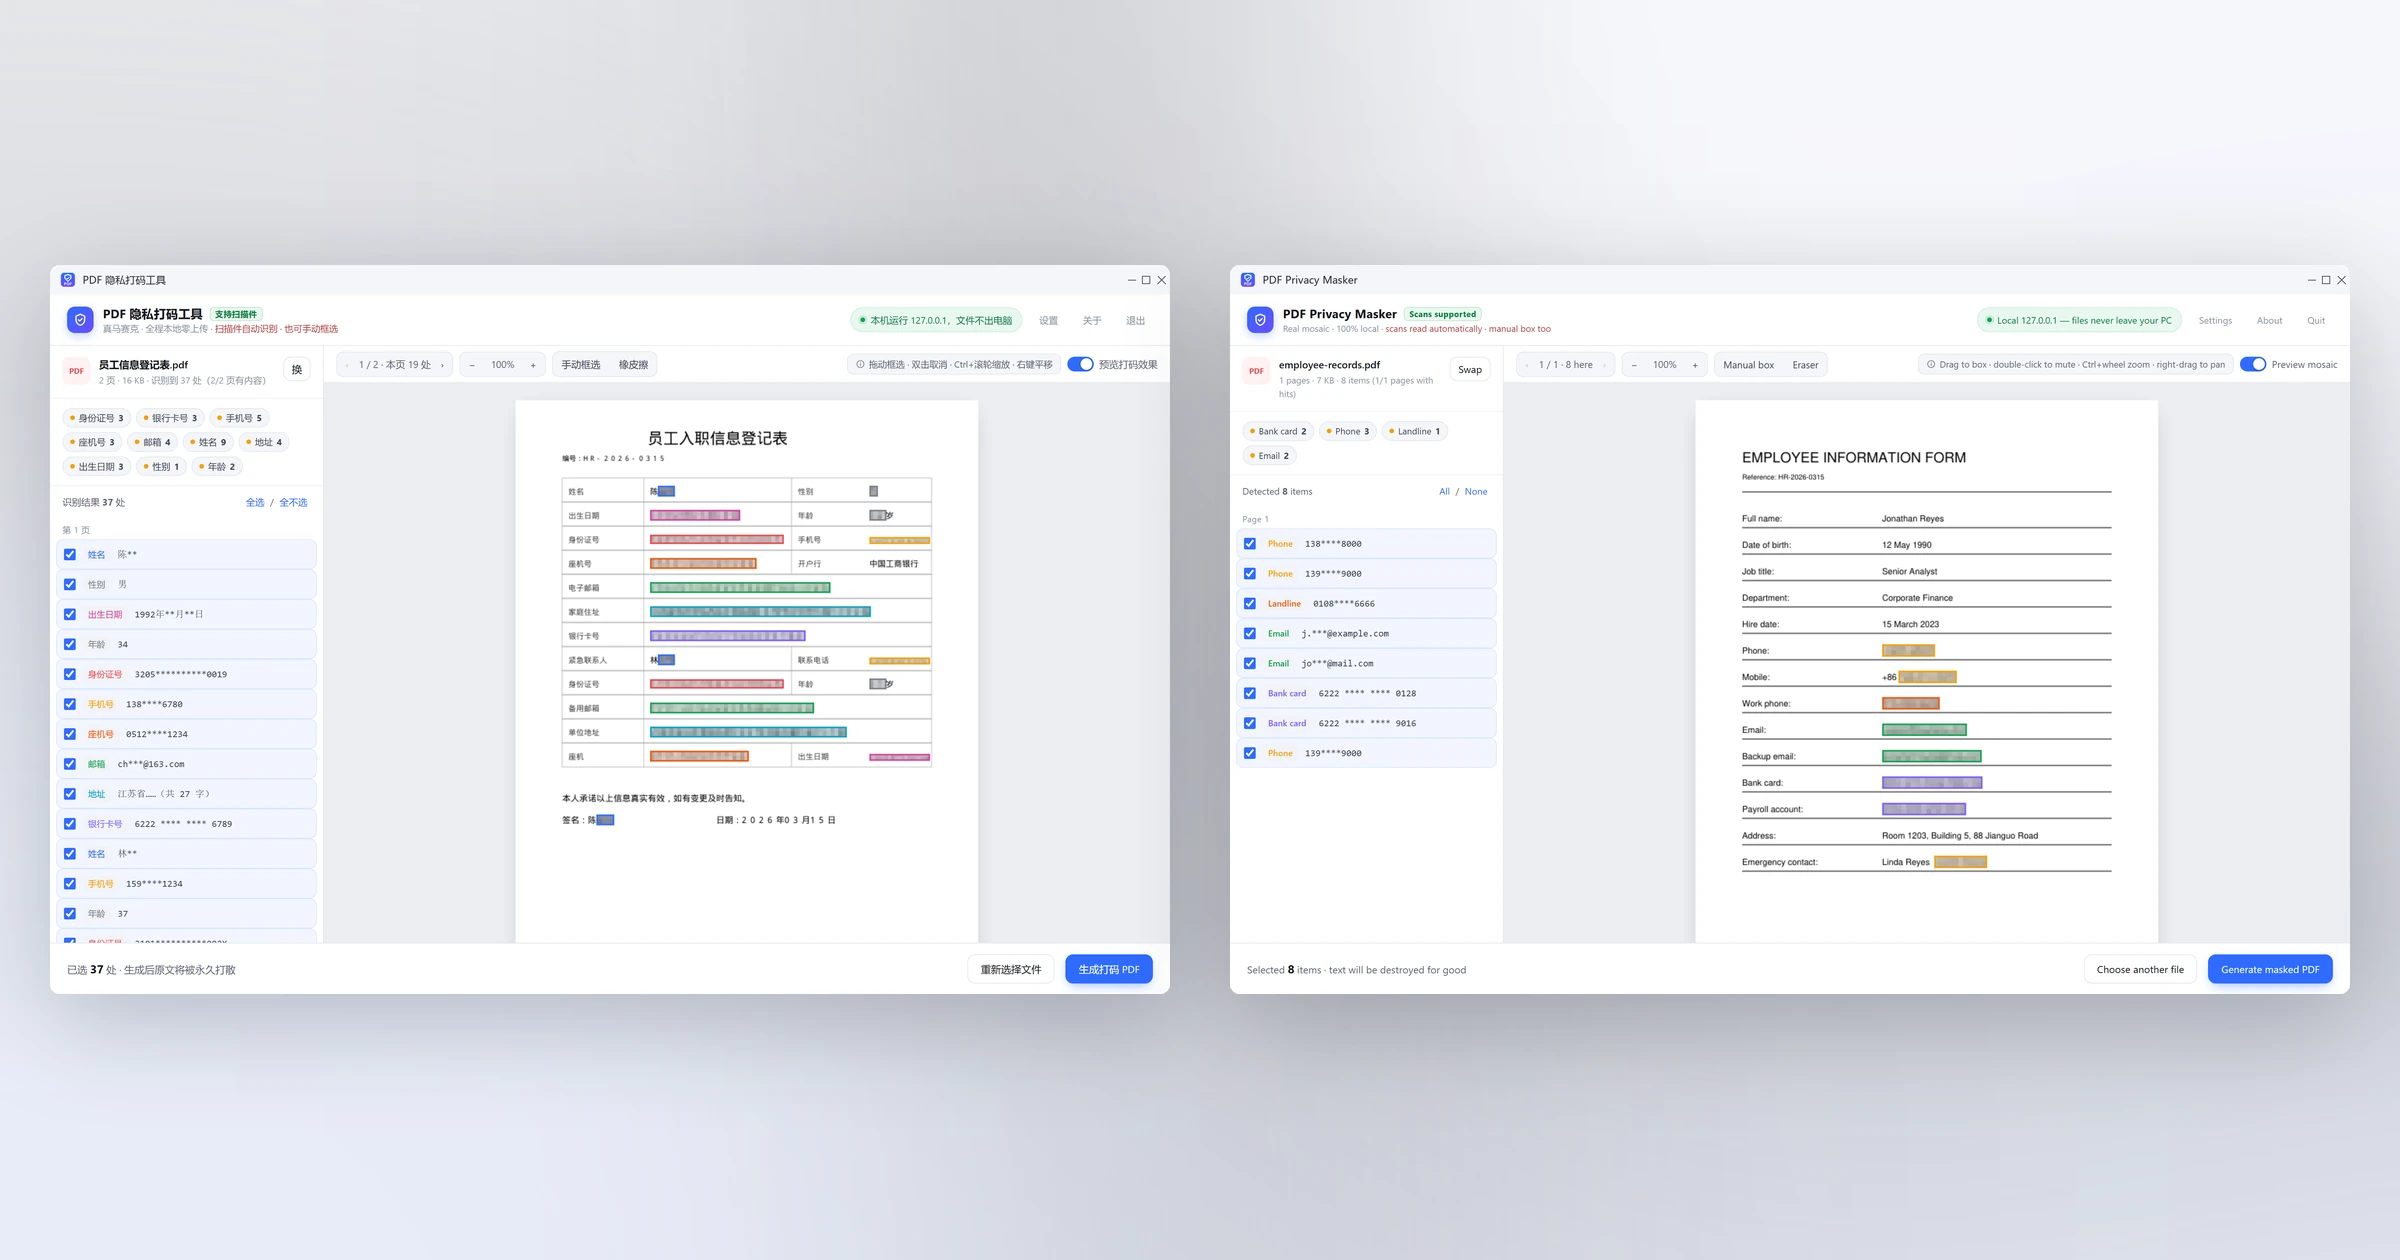
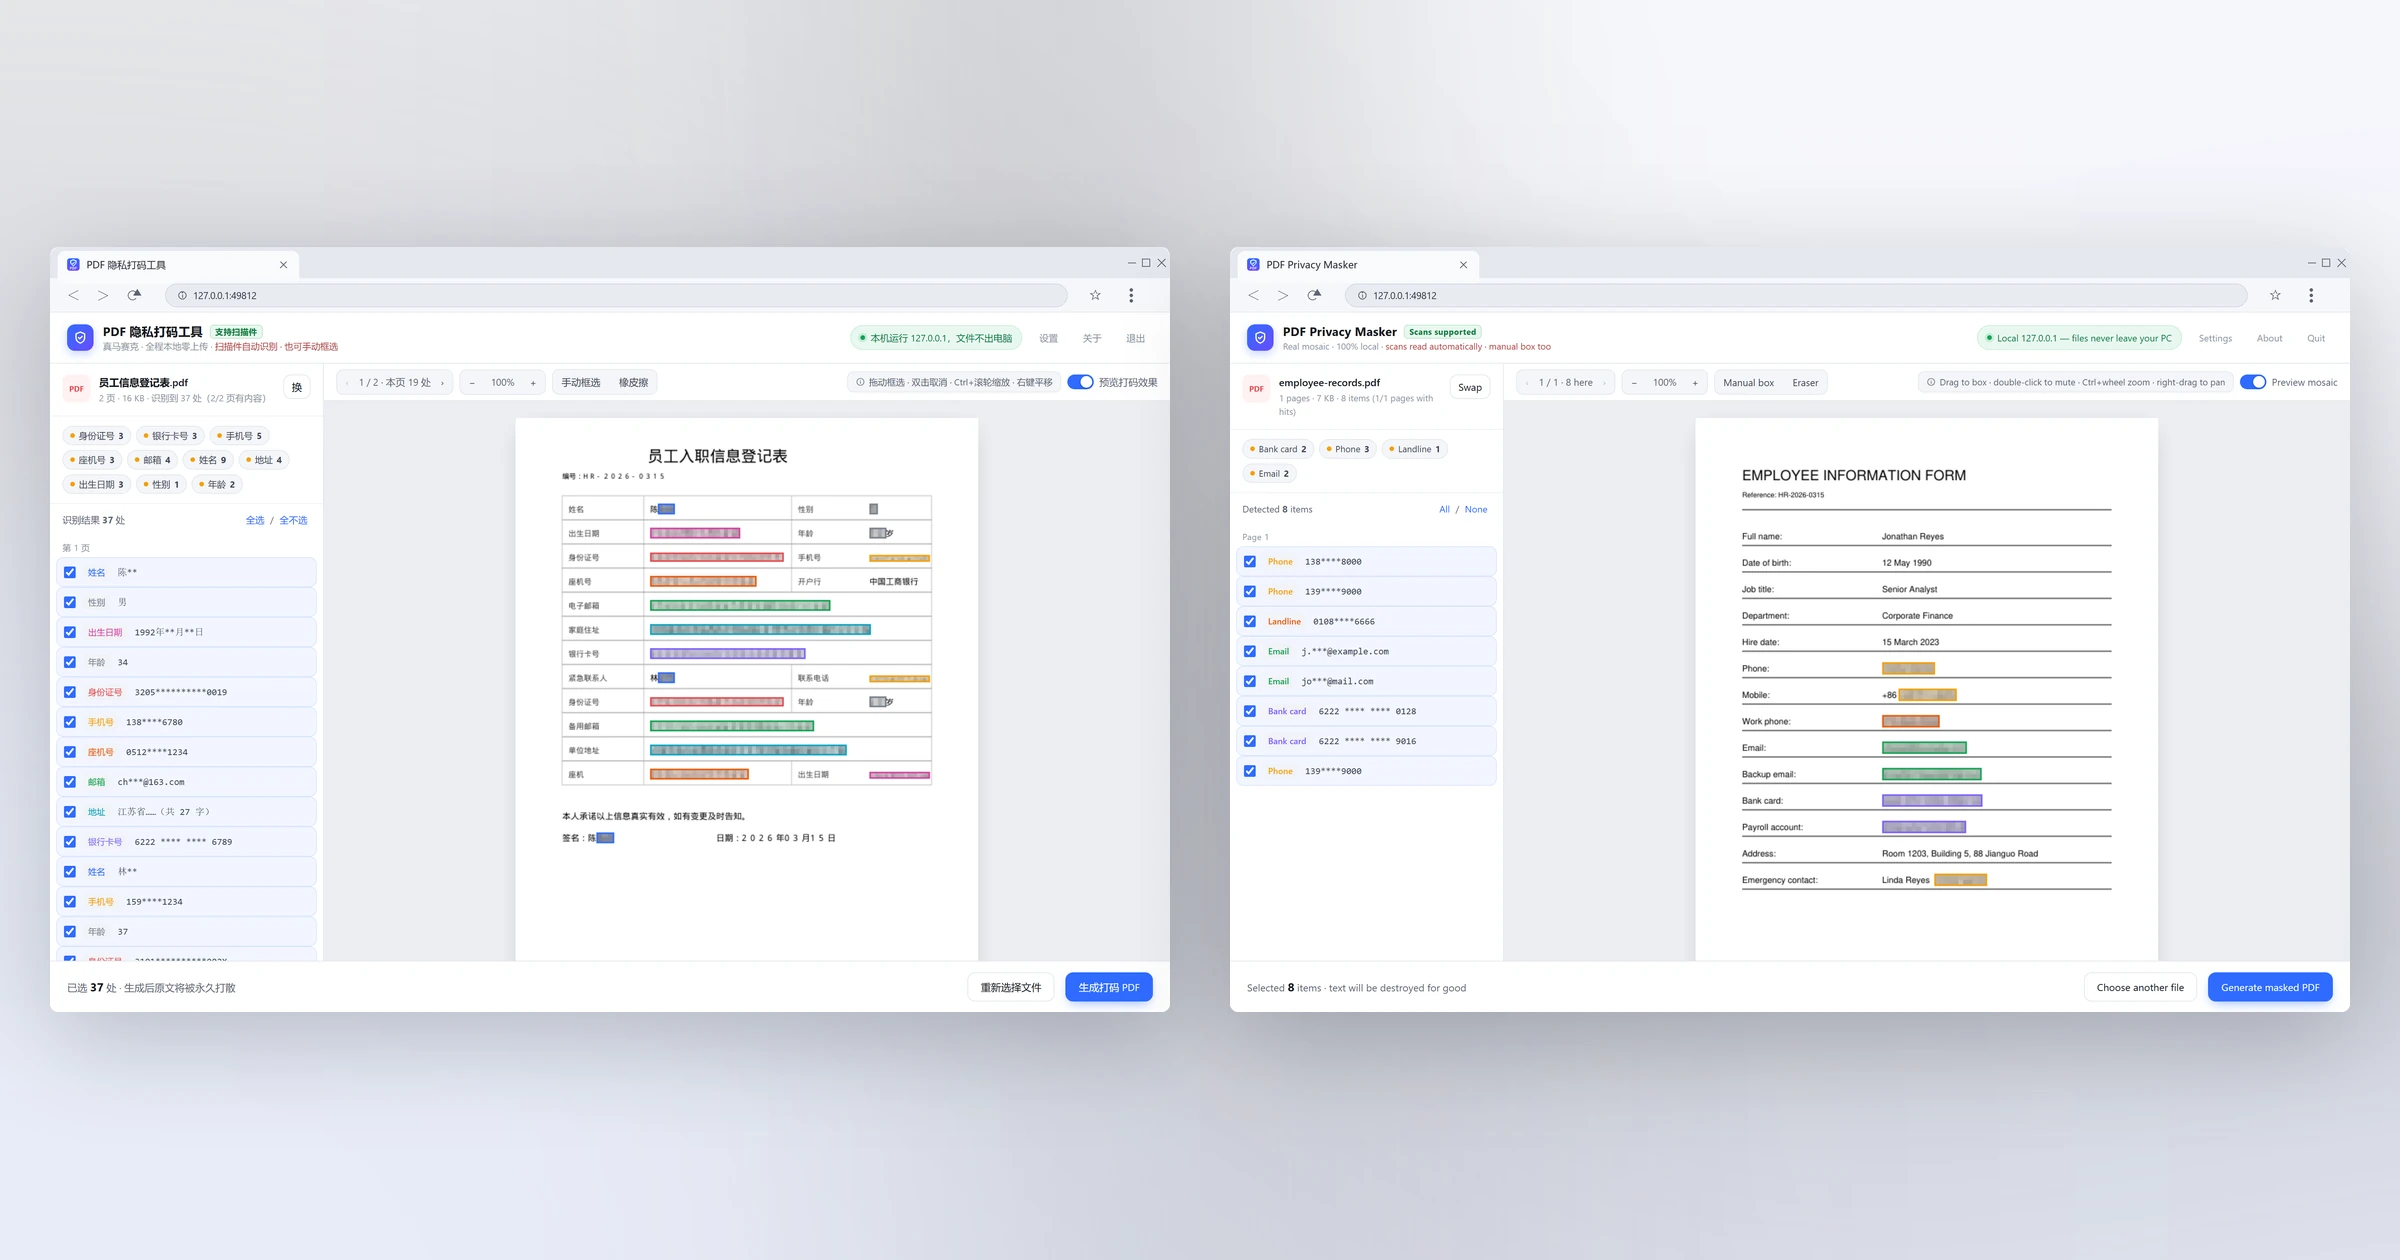
docs(shots): Windows 截图外框改为浏览器窗口，README 讲清是 127.0.0.1 本地页面
程序本来就是起本地服务、用系统默认浏览器打开，原先套的「标题栏+窗口按钮」像
独立桌面程序，容易让人误会。现在外壳画成浏览器（标签页 + 地址栏 127.0.0.1 +
前进后退刷新），中英双语说明同步补充。

diff --git a/dev/make_readme_shots.py b/dev/make_readme_shots.py
@@ -9,8 +9,10 @@ README 里原来放的是纯界面截图（Windows 1120×720、安卓 1080×2400
 1. **出图**：Windows 端拿程序真正在浏览器里跑的那一页（pdfmask.HTML_UI），
    喂一份真实 PDF 的检测结果（真跑 pdfmask.detect，不是编的），用无头 Edge
    截成 2 倍图；安卓端直接用 Robolectric 的界面截图（app/build/ui-shots）。
-2. **套壳**：Windows 窗口（标题栏 + 最小化/最大化/关闭）、手机（圆角边框 +
-   挖孔 + 侧键）都用 PIL 画出来，配柔和渐变底和投影，仿 DSH Go 的 README。
+2. **套壳**：Windows 端套的是**浏览器窗口**（标签页 + 地址栏 + 窗口按钮），
+   因为程序本来就是用系统默认浏览器打开 127.0.0.1 的本地页面，套成独立桌面
+   程序的标题栏会让人误以为它是原生窗口程序；手机只套圆角边框 + 挖孔 + 侧键。
+   外壳都用 PIL 画出来，配柔和渐变底和投影，仿 DSH Go 的 README。
 
 产物（docs/img/shot/）
     win-work-{zh,en}.webp        单个 Windows 窗口
@@ -31,6 +33,7 @@ import base64
 import glob
 import io
 import json
+import math
 import os
 import re
 import subprocess
@@ -72,6 +75,10 @@ THEMES = {
         shadow=(15, 23, 42), shadow_k=1.0,
         chrome=(246, 247, 250), titlebar=(245, 246, 249),
         edge=(214, 218, 228), win_text=(40, 44, 54), win_btn=(72, 78, 92),
+        # 浏览器外壳（标签页条 / 工具条 / 地址栏）
+        bx_tabbar=(229, 232, 239), bx_tab=(249, 250, 253),
+        bx_toolbar=(246, 247, 251), bx_pill=(232, 235, 242),
+        bx_text=(48, 53, 64), bx_icon=(92, 98, 113), bx_edge=(210, 214, 225),
         title=(22, 26, 36), sub=(96, 102, 118), brand=(90, 96, 112),
         pill=(255, 255, 255, 210), pill_edge=(214, 220, 232, 255),
         pill_text=(60, 66, 82), fine=(148, 154, 168),
@@ -82,6 +89,9 @@ THEMES = {
         shadow=(0, 0, 0), shadow_k=1.9,
         chrome=(34, 38, 47), titlebar=(38, 42, 52),
         edge=(58, 63, 76), win_text=(224, 228, 237), win_btn=(196, 202, 216),
+        bx_tabbar=(24, 27, 34), bx_tab=(45, 49, 59),
+        bx_toolbar=(38, 42, 51), bx_pill=(28, 31, 39),
+        bx_text=(226, 230, 238), bx_icon=(178, 185, 199), bx_edge=(58, 63, 76),
         title=(238, 241, 248), sub=(148, 156, 174), brand=(138, 146, 164),
         pill=(30, 34, 44, 220), pill_edge=(58, 64, 80, 255),
         pill_text=(202, 210, 226), fine=(118, 126, 144),
@@ -316,38 +326,103 @@ def shadow(canvas, box, radius, blur, alpha, offset=(0, 18)):
     canvas.alpha_composite(layer)
 
 
-def frame_window(shot_path, title, scale_title=1.0):
-    """把网页截图放进 Windows 11 风格的窗口里（含标题栏与窗口按钮）。"""
+def frame_window(shot_path, title, scale_title=1.0, url="127.0.0.1:49812"):
+    """把网页截图放进浏览器窗口里。
+
+    Windows 端本来就是「程序起一个本地服务 → 用系统默认浏览器打开
+    127.0.0.1 的页面」，所以外壳必须画成浏览器（标签页条 + 地址栏 + 窗口按钮），
+    不能画成独立桌面程序的标题栏——那会让人以为双击开的是个原生窗口程序。
+    """
     src = Image.open(shot_path).convert("RGB")
     s = 2  # 截图是 2 倍图
-    bar_h = 38 * s
-    radius = 12 * s
+    tab_h = 40 * s
+    tool_h = 44 * s
+    bar_h = tab_h + tool_h
+    radius = 10 * s
     W, H = src.size
     win = Image.new("RGBA", (W, H + bar_h), (0, 0, 0, 0))
     d = ImageDraw.Draw(win)
-    chrome = TH["chrome"] + (255,)
-    titlebar = TH["titlebar"] + (255,)
-    d.rounded_rectangle([0, 0, W - 1, win.height - 1], radius=radius, fill=chrome)
-    # 标题栏
-    d.rounded_rectangle([0, 0, W - 1, bar_h + radius], radius=radius, fill=titlebar)
-    d.rectangle([0, bar_h - radius, W - 1, bar_h], fill=titlebar)
-    d.line([0, bar_h, W - 1, bar_h], fill=TH["edge"] + (255,), width=max(1, s // 2))
-    # 图标 + 标题
-    ic = app_icon(int(18 * s * scale_title))
-    win.alpha_composite(ic, (14 * s, (bar_h - ic.height) // 2))
-    f = font(int(13 * s * scale_title), en=False)
-    d.text((14 * s + ic.width + 10 * s, (bar_h - int(13 * s * 1.35)) // 2),
-           title, font=f, fill=TH["win_text"] + (255,))
-    # 窗口按钮：最小化 / 最大化 / 关闭
+    icon_col = TH["bx_icon"] + (255,)
+    text_col = TH["bx_text"] + (255,)
+    edge_col = TH["bx_edge"] + (255,)
+    lw = max(1, int(1.4 * s))
+
+    # 标签页条 + 工具条
+    d.rounded_rectangle([0, 0, W - 1, win.height - 1], radius=radius,
+                        fill=TH["bx_tabbar"] + (255,))
+    d.rectangle([0, tab_h, W - 1, bar_h - 1], fill=TH["bx_toolbar"] + (255,))
+    d.line([0, bar_h - 1, W - 1, bar_h - 1], fill=edge_col, width=lw)
+
+    # —— 标签页条：一个活动标签（图标 + 标题 + 关闭），像真的开着这一页
+    tab_x0, tab_x1 = 10 * s, 10 * s + int(min(310 * s, W * 0.30))
+    d.rounded_rectangle([tab_x0, 5 * s, tab_x1, tab_h + 6 * s], radius=9 * s,
+                        fill=TH["bx_tab"] + (255,))
+    d.rectangle([tab_x0, tab_h - 8 * s, tab_x1, tab_h + 5 * s],
+                fill=TH["bx_tab"] + (255,))
+    ic = app_icon(int(16 * s))
+    win.alpha_composite(ic, (tab_x0 + 12 * s, 5 * s + (tab_h - 5 * s - ic.height) // 2))
+    tx = tab_x0 + 12 * s + ic.width + 9 * s
+    f_tab = font(int(12.5 * s * scale_title))
+    d.text((tx, 5 * s + (tab_h - 5 * s - int(12.5 * s * 1.35)) // 2), title,
+           font=f_tab, fill=TH["win_text"] + (255,))
+    cx = tab_x1 - 20 * s
+    cy = 5 * s + (tab_h - 5 * s) // 2
+    r = 4 * s
+    d.line([cx - r, cy - r, cx + r, cy + r], fill=icon_col, width=lw)
+    d.line([cx - r, cy + r, cx + r, cy - r], fill=icon_col, width=lw)
+
+    # —— 窗口按钮：最小化 / 最大化 / 关闭
     bx = W - 20 * s
-    cy = bar_h // 2
-    lw = max(1, int(1.2 * s))
-    col = TH["win_btn"] + (255,)
-    d.line([bx - 34 * s, cy, bx - 24 * s, cy], fill=col, width=lw)          # —
+    cy = tab_h // 2
+    d.line([bx - 34 * s, cy, bx - 24 * s, cy], fill=icon_col, width=lw)
     d.rectangle([bx - 16 * s, cy - 5 * s, bx - 6 * s, cy + 5 * s],
-                outline=col, width=lw)                                       # □
-    d.line([bx + 4 * s, cy - 5 * s, bx + 14 * s, cy + 5 * s], fill=col, width=lw)   # ✕
-    d.line([bx + 4 * s, cy + 5 * s, bx + 14 * s, cy - 5 * s], fill=col, width=lw)
+                outline=icon_col, width=lw)
+    d.line([bx + 4 * s, cy - 5 * s, bx + 14 * s, cy + 5 * s], fill=icon_col, width=lw)
+    d.line([bx + 4 * s, cy + 5 * s, bx + 14 * s, cy - 5 * s], fill=icon_col, width=lw)
+
+    # —— 工具条：后退 / 前进 / 刷新，然后地址栏
+    ty = tab_h + tool_h // 2
+    ar = 6 * s
+    ax = 30 * s
+    for i in range(2):
+        px = ax + i * 38 * s
+        sgn = -1 if i == 0 else 1          # 后退朝左、前进朝右
+        tip = px + sgn * ar
+        tail = px - sgn * ar
+        d.line([tail, ty - ar, tip, ty], fill=icon_col, width=lw)
+        d.line([tail, ty + ar, tip, ty], fill=icon_col, width=lw)
+    px = ax + 76 * s
+    d.arc([px - ar, ty - ar, px + ar, ty + ar], 40, 320, fill=icon_col, width=lw)
+    d.polygon([(px + ar, ty - ar - 2 * s), (px + ar + 5 * s, ty - ar + 6 * s),
+               (px + ar - 5 * s, ty - ar + 6 * s)], fill=icon_col)
+
+    pill_x0 = ax + 118 * s
+    pill_x1 = W - 132 * s
+    ph = 30 * s
+    d.rounded_rectangle([pill_x0, ty - ph // 2, pill_x1, ty + ph // 2],
+                        radius=ph // 2, fill=TH["bx_pill"] + (255,),
+                        outline=edge_col, width=lw)
+    # 小锁 / 信息点 + 地址：「127.0.0.1:端口」是本地地址，不是外网
+    lx = pill_x0 + 22 * s
+    d.ellipse([lx - 5 * s, ty - 5 * s, lx + 5 * s, ty + 5 * s], outline=icon_col, width=lw)
+    d.line([lx, ty - 1 * s, lx, ty + 3 * s], fill=icon_col, width=lw)
+    d.line([lx - 1, ty - 4 * s, lx + 1, ty - 4 * s], fill=icon_col, width=max(1, int(2 * s)))
+    d.text((pill_x0 + 36 * s, ty - int(12.5 * s * 0.68)), url,
+           font=font(int(12.5 * s), en=True), fill=text_col)
+    # 右侧：收藏星 + 菜单
+    sx = W - 96 * s
+    star_r = 7 * s
+    pts = []
+    for k in range(10):
+        ang = -math.pi / 2 + k * math.pi / 5
+        rr = star_r if k % 2 == 0 else star_r * 0.45
+        pts.append((sx + rr * math.cos(ang), ty + rr * math.sin(ang)))
+    d.polygon(pts, outline=icon_col, width=lw)
+    mx = W - 50 * s
+    for k in (-1, 0, 1):
+        d.ellipse([mx - 2 * s, ty + k * 7 * s - 2 * s,
+                   mx + 2 * s, ty + k * 7 * s + 2 * s], fill=icon_col)
+
     # 页面内容
     win.paste(src, (0, bar_h))
     # 圆角裁切
@@ -633,7 +708,15 @@ def lang_compare():
 def main():
     args = set(sys.argv[1:])
     load_phone_src()
-    if args & {"--win", "--all", ""} or not args:
+    frames_only = "--frames" in args
+    if frames_only:
+        # 只换外壳：复用 dev/_ui/win 里已有的 2 倍图，不重跑检测、不开浏览器
+        miss = [p for p in (shot_window_png(l, s) for l in ("zh", "en")
+                            for s in ("work", "settings")) if not os.path.exists(p)]
+        if miss:
+            raise SystemExit("缺少原始截图，先跑一次全量生成：%s" % miss[0])
+        print("复用已有截图")
+    elif not args or args & {"--win", "--all"}:
         print("Windows 截图")
         for lang in ("zh", "en"):
             for scene in ("work", "settings"):

diff --git a/README.md b/README.md
@@ -103,7 +103,7 @@
 
 
 <p align="center">  
-  <sub>截图取自程序真实渲染，非示意图。安卓端的放大镜、扫描件识别、应用内更新实拍图见 <a href="docs/02-使用说明-安卓.md">使用说明 · 安卓</a>。</sub>  
+  <sub>截图取自程序真实渲染，非示意图。桌面端外面那层是<strong>浏览器窗口</strong>：程序在本机起一个服务，再用系统默认浏览器（Edge / Chrome 等）打开 <code>127.0.0.1</code> 的本地页面，不是独立安装的桌面窗口程序。安卓端的放大镜、扫描件识别、应用内更新实拍图见 <a href="docs/02-使用说明-安卓.md">使用说明 · 安卓</a>。</sub>  
 </p>
 
 ---
@@ -537,7 +537,7 @@ Available for **Windows** (single-file exe), **Android** (arm64 apk) and **Linux
 <br>
 
 <p align="center">
-  <sub>Captured from the real UI, not mock drawings. More Android shots (loupe, scanned-PDF recognition, in-app update) are in <a href="docs/02-使用说明-安卓.md">the Android guide</a>.</sub>
+  <sub>Captured from the real UI, not mock drawings. On desktop, the frame around it is a <strong>browser window</strong>: the program serves the page locally and opens <code>127.0.0.1</code> in your default browser (Edge / Chrome …) — it is not a standalone desktop window app. More Android shots (loupe, scanned-PDF recognition, in-app update) are in <a href="docs/02-使用说明-安卓.md">the Android guide</a>.</sub>
 </p>
 
 ---
